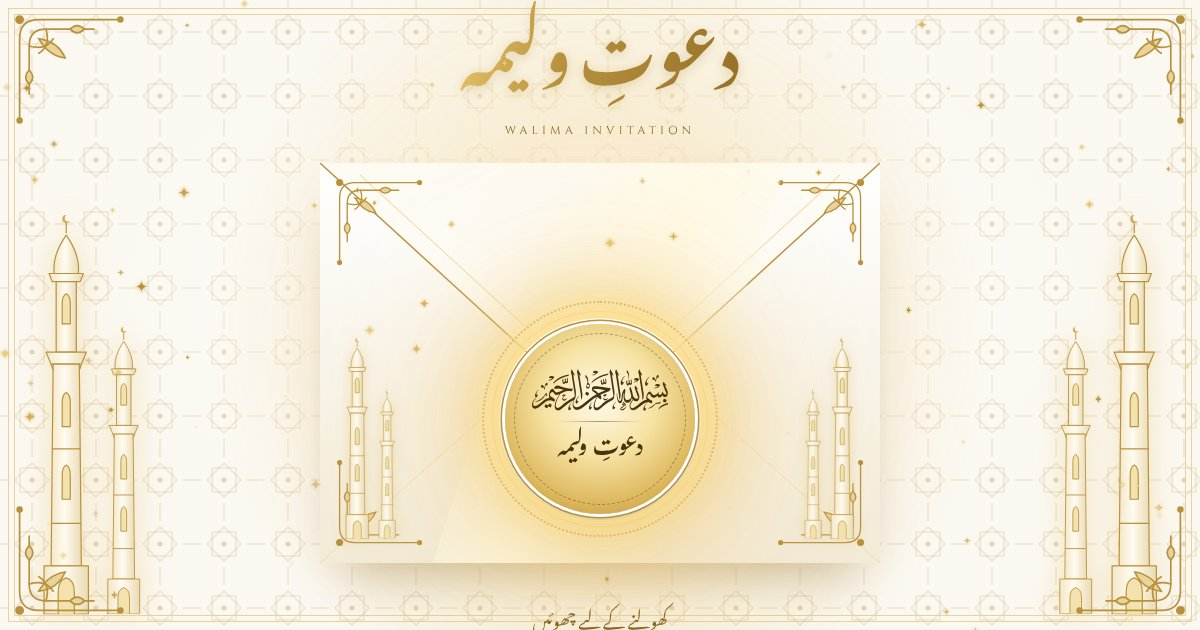
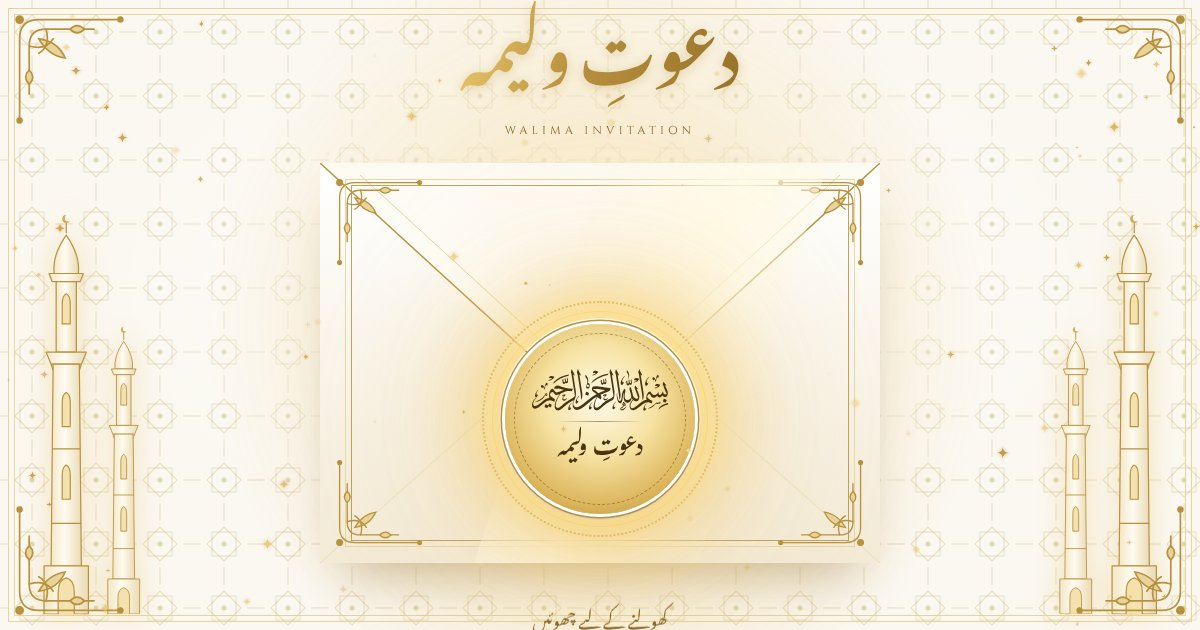
White card: double gold border on the envelope instead of minarets
Claude-Session: https://claude.ai/code/session_0114uiG5UvM8er5AcL78Nz6p

diff --git a/wedding-card-white/index.html b/wedding-card-white/index.html
@@ -220,19 +220,14 @@ canvas.burst { position: fixed; inset: 0; width: 100%; height: 100%; z-index: 40
 .gate-corner.bl { bottom: 10px; left: 10px; transform: scaleY(-1); }
 .gate-corner.br { bottom: 10px; right: 10px; transform: scale(-1, -1); }
 /* light sweeping across the envelope */
+.env-border { position: absolute; inset: 5.5%; z-index: 4; pointer-events: none; transition: opacity .3s;
+  border: 1.5px solid rgba(184,145,63,.85); outline: 1px solid rgba(232,211,154,.9); outline-offset: 5px; }
 .env-corner { position: absolute; z-index: 4; width: 17%; height: auto; aspect-ratio: 1; pointer-events: none; transition: opacity .3s; }
 .env-corner.tl { top: 3%; left: 2.2%; }
 .env-corner.tr { top: 3%; right: 2.2%; transform: scaleX(-1); }
 .env-corner.bl { bottom: 3%; left: 2.2%; transform: scaleY(-1); }
 .env-corner.br { bottom: 3%; right: 2.2%; transform: scale(-1, -1); }
-.env-minarets { position: absolute; bottom: 6%; z-index: 4; display: flex; align-items: flex-end; gap: 3%; width: 16%; pointer-events: none; transition: opacity .3s;
-  filter: drop-shadow(0 0 6px rgba(232,200,120,.5)); }
-.env-minarets.left { left: 4%; }
-.env-minarets.right { right: 4%; justify-content: flex-end; }
-.env-minarets svg { display: block; overflow: visible; }
-.env-minarets .e1 { width: 34%; height: auto; aspect-ratio: 60 / 400; }
-.env-minarets .e2 { width: 25%; height: auto; aspect-ratio: 60 / 400; }
-.gate.open .env-minarets, .gate.open .env-corner { opacity: 0; }
+.gate.open .env-corner, .gate.open .env-border { opacity: 0; }
 .shine { position: absolute; inset: 0; z-index: 4; overflow: hidden; pointer-events: none; }
 .shine::before { content: ""; position: absolute; top: -20%; bottom: -20%; left: -60%; width: 40%;
   background: linear-gradient(100deg, rgba(255,255,255,0), rgba(255,250,230,.85) 50%, rgba(255,255,255,0));
@@ -441,12 +436,11 @@ canvas.burst { position: fixed; inset: 0; width: 100%; height: 100%; z-index: 40
         <path d="M0 0 H140 L70 64 Z" fill="url(#flapG)"/>
       </svg>
     </div>
+    <div class="env-border" aria-hidden="true"></div>
     <svg class="env-corner tl" viewBox="0 0 100 100" aria-hidden="true"><use href="#cornerArt"/></svg>
     <svg class="env-corner tr" viewBox="0 0 100 100" aria-hidden="true"><use href="#cornerArt"/></svg>
     <svg class="env-corner bl" viewBox="0 0 100 100" aria-hidden="true"><use href="#cornerArt"/></svg>
     <svg class="env-corner br" viewBox="0 0 100 100" aria-hidden="true"><use href="#cornerArt"/></svg>
-    <div class="env-minarets left" aria-hidden="true"><svg class="e1"><use href="#minaret"/></svg><svg class="e2"><use href="#minaret"/></svg></div>
-    <div class="env-minarets right" aria-hidden="true"><svg class="e2"><use href="#minaret"/></svg><svg class="e1"><use href="#minaret"/></svg></div>
     <div class="shine"></div>
     <div class="seal-ring"></div>
     <div class="seal">
